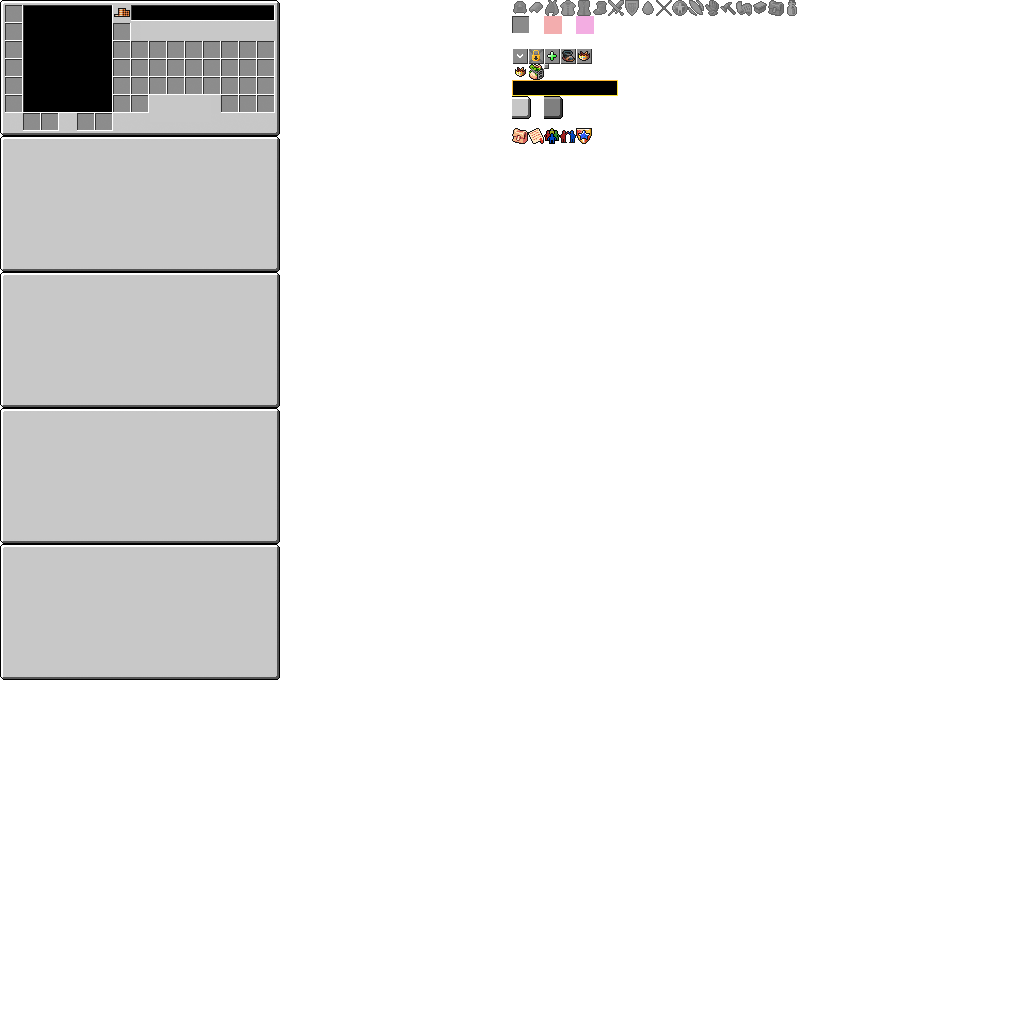
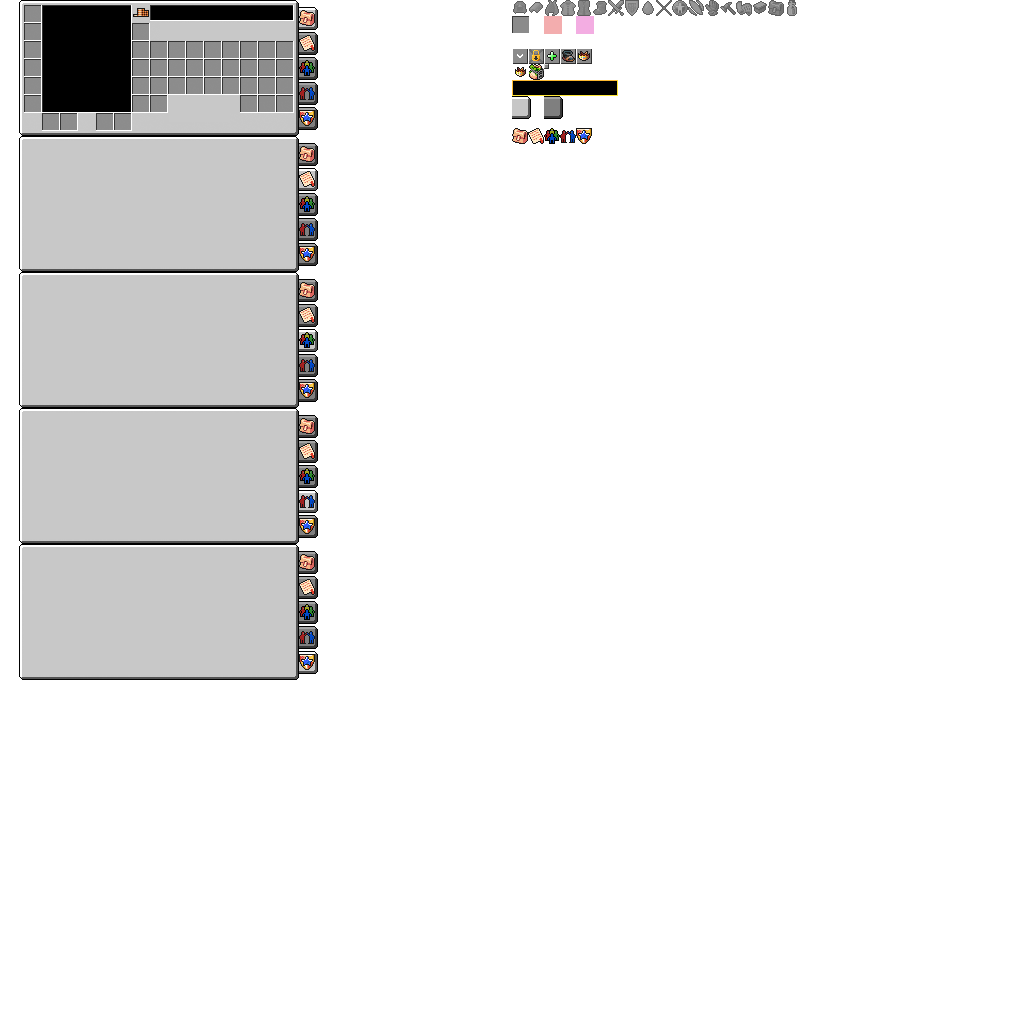
Tabs and slight improvements

Changed region(s): [[0.2188, 0.0, 0.3125, 0.6875], [0.0, 0.0, 0.2188, 0.6875]]

diff --git a/src/main/java/com/fantasticsource/tiamatrpg/inventory/TiamatInventoryContainer.java b/src/main/java/com/fantasticsource/tiamatrpg/inventory/TiamatInventoryContainer.java
@@ -33,14 +33,14 @@ public class TiamatInventoryContainer extends Container
         //Active mainhand and offhand
         //Index 0 - 1
         //Internal index 0 and 40 (vanilla)
-        addSlotToContainer(new FilteredSlot(playerInventory, 0, 24, 114, 608, 0, true, 1, stack -> getSlot(1).getStack().isEmpty() || (!MiscTags.isTwoHanded(stack) && !MiscTags.isTwoHanded(getSlot(1).getStack()))));
-        addSlotToContainer(new FilteredSlot(playerInventory, 40, 42, 114, 624, 0, true, 1, stack -> getSlot(0).getStack().isEmpty() || (!MiscTags.isTwoHanded(stack) && !MiscTags.isTwoHanded(getSlot(0).getStack()))));
+        addSlotToContainer(new FilteredSlot(playerInventory, 0, 43, 114, 608, 0, true, 1, stack -> getSlot(1).getStack().isEmpty() || (!MiscTags.isTwoHanded(stack) && !MiscTags.isTwoHanded(getSlot(1).getStack()))));
+        addSlotToContainer(new FilteredSlot(playerInventory, 40, 61, 114, 624, 0, true, 1, stack -> getSlot(0).getStack().isEmpty() || (!MiscTags.isTwoHanded(stack) && !MiscTags.isTwoHanded(getSlot(0).getStack()))));
 
         //Inactive mainhand and offhand
         //Index 2 - 3
         //Internal index 0 and 1 (tiamat)
-        addSlotToContainer(new FilteredSlot(tiamatPlayerInventory, 0, 78, 114, 608, 0, false, 1, stack -> getSlot(3).getStack().isEmpty() || (!MiscTags.isTwoHanded(stack) && !MiscTags.isTwoHanded(getSlot(3).getStack()))));
-        addSlotToContainer(new FilteredSlot(tiamatPlayerInventory, 1, 96, 114, 624, 0, false, 1, stack -> getSlot(2).getStack().isEmpty() || (!MiscTags.isTwoHanded(stack) && !MiscTags.isTwoHanded(getSlot(2).getStack()))));
+        addSlotToContainer(new FilteredSlot(tiamatPlayerInventory, 0, 97, 114, 608, 0, false, 1, stack -> getSlot(3).getStack().isEmpty() || (!MiscTags.isTwoHanded(stack) && !MiscTags.isTwoHanded(getSlot(3).getStack()))));
+        addSlotToContainer(new FilteredSlot(tiamatPlayerInventory, 1, 115, 114, 624, 0, false, 1, stack -> getSlot(2).getStack().isEmpty() || (!MiscTags.isTwoHanded(stack) && !MiscTags.isTwoHanded(getSlot(2).getStack()))));
 
         //"Cargo" inventory
         //Index 4 - 30
@@ -49,7 +49,7 @@ public class TiamatInventoryContainer extends Container
         {
             for (int xx = 0; xx < 9; ++xx)
             {
-                addSlotToContainer(new BetterSlot(playerInventory, xx + (yy + 1) * 9, 114 + xx * 18, 42 + yy * 18, -1, -1));
+                addSlotToContainer(new BetterSlot(playerInventory, xx + (yy + 1) * 9, 133 + xx * 18, 42 + yy * 18, -1, -1));
             }
         }
 
@@ -62,35 +62,35 @@ public class TiamatInventoryContainer extends Container
         //...38 (vanilla chest)
         //...37 (vanilla legs)
         //...36 (vanilla feet)
-        addVanillaEquipmentSlot(playerInventory, EntityEquipmentSlot.HEAD, 39, 6, 6, 512, 0);
-        addSlotToContainer(new FilteredSlot(tiamatPlayerInventory, 2, 6, 24, 528, 0, true, 1, stack -> stack.hasTagCompound() && MiscTags.stackFitsSlot(stack, "Tiamat Shoulders")));
-        addSlotToContainer(new FilteredSlot(tiamatPlayerInventory, 3, 6, 42, 544, 0, true, 1, stack -> stack.hasTagCompound() && MiscTags.stackFitsSlot(stack, "Tiamat Cape")));
-        addVanillaEquipmentSlot(playerInventory, EntityEquipmentSlot.CHEST, 38, 6, 60, 560, 0);
-        addVanillaEquipmentSlot(playerInventory, EntityEquipmentSlot.LEGS, 37, 6, 78, 576, 0);
-        addVanillaEquipmentSlot(playerInventory, EntityEquipmentSlot.FEET, 36, 6, 96, 592, 0);
+        addVanillaEquipmentSlot(playerInventory, EntityEquipmentSlot.HEAD, 39, 25, 6, 512, 0);
+        addSlotToContainer(new FilteredSlot(tiamatPlayerInventory, 2, 25, 24, 528, 0, true, 1, stack -> stack.hasTagCompound() && MiscTags.stackFitsSlot(stack, "Tiamat Shoulders")));
+        addSlotToContainer(new FilteredSlot(tiamatPlayerInventory, 3, 25, 42, 544, 0, true, 1, stack -> stack.hasTagCompound() && MiscTags.stackFitsSlot(stack, "Tiamat Cape")));
+        addVanillaEquipmentSlot(playerInventory, EntityEquipmentSlot.CHEST, 38, 25, 60, 560, 0);
+        addVanillaEquipmentSlot(playerInventory, EntityEquipmentSlot.LEGS, 37, 25, 78, 576, 0);
+        addVanillaEquipmentSlot(playerInventory, EntityEquipmentSlot.FEET, 36, 25, 96, 592, 0);
 
         //Quick slots
         //Index 37 - 39
         //Internal index 4 - 6 (tiamat)
         for (int xx = 0; xx < 3; xx++)
         {
-            addSlotToContainer(new FilteredSlot(tiamatPlayerInventory, 4 + xx, 222 + xx * 18, 96, 784, 0, true, 1, stack -> stack.hasTagCompound() && MiscTags.stackFitsSlot(stack, "Tiamat Quick Item")));
+            addSlotToContainer(new FilteredSlot(tiamatPlayerInventory, 4 + xx, 241 + xx * 18, 96, 784, 0, true, 1, stack -> stack.hasTagCompound() && MiscTags.stackFitsSlot(stack, "Tiamat Quick Item")));
         }
 
         //Backpack slot
         //Index 40
         //Internal index 7 (tiamat)
-        addSlotToContainer(new FilteredSlot(tiamatPlayerInventory, 7, 114, 24, 768, 0, true, 1, stack -> stack.hasTagCompound() && MiscTags.stackFitsSlot(stack, "Tiamat Backpack")));
+        addSlotToContainer(new FilteredSlot(tiamatPlayerInventory, 7, 133, 24, 768, 0, true, 1, stack -> stack.hasTagCompound() && MiscTags.stackFitsSlot(stack, "Tiamat Backpack")));
 
         //Pet slot
         //Index 41
         //Internal index 8 (tiamat)
-        addSlotToContainer(new FilteredSlot(tiamatPlayerInventory, 8, 132, 96, 640, 0, true, 1, stack -> stack.hasTagCompound() && MiscTags.stackFitsSlot(stack, "Tiamat Pet")));
+        addSlotToContainer(new FilteredSlot(tiamatPlayerInventory, 8, 151, 96, 640, 0, true, 1, stack -> stack.hasTagCompound() && MiscTags.stackFitsSlot(stack, "Tiamat Pet")));
 
         //Deck slot
         //Index 42
         //Internal index 9 (tiamat)
-        addSlotToContainer(new FilteredSlot(tiamatPlayerInventory, 9, 114, 96, 752, 0, true, 1, stack -> stack.hasTagCompound() && MiscTags.stackFitsSlot(stack, "Tiamat Deck")));
+        addSlotToContainer(new FilteredSlot(tiamatPlayerInventory, 9, 133, 96, 752, 0, true, 1, stack -> stack.hasTagCompound() && MiscTags.stackFitsSlot(stack, "Tiamat Deck")));
     }
 
     public static boolean canCombine(ItemStack from, ItemStack to)

diff --git a/src/main/java/com/fantasticsource/tiamatrpg/inventory/TiamatInventoryGUI.java b/src/main/java/com/fantasticsource/tiamatrpg/inventory/TiamatInventoryGUI.java
@@ -3,8 +3,6 @@ package com.fantasticsource.tiamatrpg.inventory;
 import com.fantasticsource.tiamatrpg.AttributeDisplayData;
 import com.fantasticsource.tools.Collision;
 import com.fantasticsource.tools.Tools;
-import moe.plushie.armourers_workshop.common.network.PacketHandler;
-import moe.plushie.armourers_workshop.common.network.messages.client.MessageClientKeyPress;
 import net.minecraft.client.Minecraft;
 import net.minecraft.client.gui.GuiButton;
 import net.minecraft.client.gui.GuiButtonImage;
@@ -25,8 +23,8 @@ import net.minecraft.util.ResourceLocation;
 import net.minecraft.util.math.MathHelper;
 import net.minecraft.util.text.TextFormatting;
 import net.minecraft.util.text.translation.I18n;
-import net.minecraftforge.fml.common.eventhandler.SubscribeEvent;
-import net.minecraftforge.fml.common.gameevent.TickEvent;
+import net.minecraftforge.client.event.GuiScreenEvent;
+import net.minecraftforge.common.MinecraftForge;
 import net.minecraftforge.fml.relauncher.Side;
 import net.minecraftforge.fml.relauncher.SideOnly;
 import org.lwjgl.input.Keyboard;
@@ -45,9 +43,9 @@ public class TiamatInventoryGUI extends GuiContainer
 {
     public static final ResourceLocation TEXTURE = new ResourceLocation(MODID, "gui/inventory.png");
     public static final int TEXTURE_W = 1024, TEXTURE_H = 1024;
-    public static final int MODEL_WINDOW_X = 24, MODEL_WINDOW_Y = 6, MODEL_WINDOW_W = 88, MODEL_WINDOW_H = 106;
-    public static final int STAT_WINDOW_X = 118, STAT_WINDOW_Y = 22, STAT_WINDOW_W = 99, STAT_WINDOW_H = 106;
-    public static final int STAT_SCROLLBAR_X = 219, STAT_SCROLLBAR_Y = 22, STAT_SCROLLBAR_W = 5, STAT_SCROLLBAR_H = 106;
+    public static final int MODEL_WINDOW_X = 43, MODEL_WINDOW_Y = 6, MODEL_WINDOW_W = 88, MODEL_WINDOW_H = 106;
+    public static final int STAT_WINDOW_X = 118000, STAT_WINDOW_Y = 22000, STAT_WINDOW_W = 99, STAT_WINDOW_H = 106;
+    public static final int STAT_SCROLLBAR_X = 219000, STAT_SCROLLBAR_Y = 22000, STAT_SCROLLBAR_W = 5, STAT_SCROLLBAR_H = 106;
     public static final int STAT_SCROLLKNOB_H = 5;
     public static final double U_PIXEL = 1d / TEXTURE_W, V_PIXEL = 1d / TEXTURE_H;
 
@@ -55,7 +53,6 @@ public class TiamatInventoryGUI extends GuiContainer
     protected static int statLineHeight;
     protected static int statHeightDif;
     protected static int tab = 0;
-    protected static boolean reopen = false;
     protected String[] stats, statTooltips;
     protected boolean buttonClicked, statsScrollGrabbed = false, modelGrabbed = false;
     protected int uOffset, vOffset, modelGrabX, modelGrabY;
@@ -100,16 +97,6 @@ public class TiamatInventoryGUI extends GuiContainer
         fontRenderer = mc.fontRenderer;
         statLineHeight = fontRenderer.FONT_HEIGHT + 1;
         statHeightDif = Tools.max(0, statLineHeight * stats.length - STAT_WINDOW_H);
-    }
-
-    @SubscribeEvent
-    public static void clientTick(TickEvent.ClientTickEvent event)
-    {
-        if (reopen && Minecraft.getMinecraft().currentScreen == null)
-        {
-            reopen = false;
-            Minecraft.getMinecraft().displayGuiScreen(new TiamatInventoryGUI());
-        }
     }
 
     public static void drawEntityOnScreen(int posX, int posY, double scale, double yaw, double pitch, EntityLivingBase ent)
@@ -336,7 +323,7 @@ public class TiamatInventoryGUI extends GuiContainer
 
         TiamatInventoryContainer container = (TiamatInventoryContainer) inventorySlots;
 
-        xSize = 280;
+        xSize = 318;
         ySize = 136;
         uOffset = 0;
         vOffset = 136 * tab;
@@ -360,28 +347,20 @@ public class TiamatInventoryGUI extends GuiContainer
         guiLeft = (width - xSize) >> 1;
 
         //Tab buttons
-        GuiButtonImage button = new GuiButtonImage(0, guiLeft + 231, guiTop + 7, 18, 21, TEXTURE_W - 18, TEXTURE_H - 21, 0, TEXTURE);
-        buttonList.add(button);
-        button = new GuiButtonImage(1, guiLeft + 231, guiTop + 32, 18, 21, TEXTURE_W - 18, TEXTURE_H - 21, 0, TEXTURE);
-        buttonList.add(button);
-        button = new GuiButtonImage(2, guiLeft + 231, guiTop + 57, 18, 21, TEXTURE_W - 18, TEXTURE_H - 21, 0, TEXTURE);
-        buttonList.add(button);
-        button = new GuiButtonImage(3, guiLeft + 231, guiTop + 82, 18, 21, TEXTURE_W - 18, TEXTURE_H - 21, 0, TEXTURE);
-        buttonList.add(button);
-        button = new GuiButtonImage(4, guiLeft + 231, guiTop + 107, 18, 21, TEXTURE_W - 18, TEXTURE_H - 21, 0, TEXTURE);
-        buttonList.add(button);
+        buttonList.add(new GuiButtonImage(0, guiLeft + 299, guiTop + 7, 19, 23, TEXTURE_W - 18, TEXTURE_H - 21, 0, TEXTURE));
+        buttonList.add(new GuiButtonImage(1, guiLeft + 299, guiTop + 32, 19, 23, TEXTURE_W - 18, TEXTURE_H - 21, 0, TEXTURE));
+        buttonList.add(new GuiButtonImage(2, guiLeft + 299, guiTop + 57, 19, 23, TEXTURE_W - 18, TEXTURE_H - 21, 0, TEXTURE));
+        buttonList.add(new GuiButtonImage(3, guiLeft + 299, guiTop + 82, 19, 23, TEXTURE_W - 18, TEXTURE_H - 21, 0, TEXTURE));
+        buttonList.add(new GuiButtonImage(4, guiLeft + 299, guiTop + 107, 19, 23, TEXTURE_W - 18, TEXTURE_H - 21, 0, TEXTURE));
+
+        MinecraftForge.EVENT_BUS.post(new GuiScreenEvent.InitGuiEvent.Post(this, buttonList));
     }
 
     protected void actionPerformed(GuiButton button)
     {
         buttonClicked = true;
 
-        if (button.id <= 3) setTab(button.id);
-        else if (button.id == 4)
-        {
-            reopen = true;
-            PacketHandler.networkWrapper.sendToServer(new MessageClientKeyPress(MessageClientKeyPress.Button.OPEN_WARDROBE));
-        }
+        if (button.id <= 5) setTab(button.id);
     }
 
     @Override

diff --git a/src/main/java/com/fantasticsource/tiamatrpg/inventory/inventoryhacks/ClientInventoryHacks.java b/src/main/java/com/fantasticsource/tiamatrpg/inventory/inventoryhacks/ClientInventoryHacks.java
@@ -18,6 +18,7 @@ import net.minecraftforge.fml.common.eventhandler.SubscribeEvent;
 import org.lwjgl.opengl.GL11;
 
 import java.util.ArrayList;
+import java.util.List;
 
 public class ClientInventoryHacks extends GuiButton
 {
@@ -99,7 +100,17 @@ public class ClientInventoryHacks extends GuiButton
         Gui gui = event.getGui();
         if (!(gui instanceof GuiContainer)) return;
 
-        event.getButtonList().add(new ClientInventoryHacks((GuiContainer) gui));
+        List<GuiButton> buttonList = event.getButtonList();
+        boolean found = false;
+        for (GuiButton button : buttonList)
+        {
+            if (button instanceof ClientInventoryHacks)
+            {
+                found = true;
+                break;
+            }
+        }
+        if (!found) buttonList.add(new ClientInventoryHacks((GuiContainer) gui));
 
         ArrayList<Integer> availableSlots = InventoryHacks.getAvailableClientInventorySlots();
 
